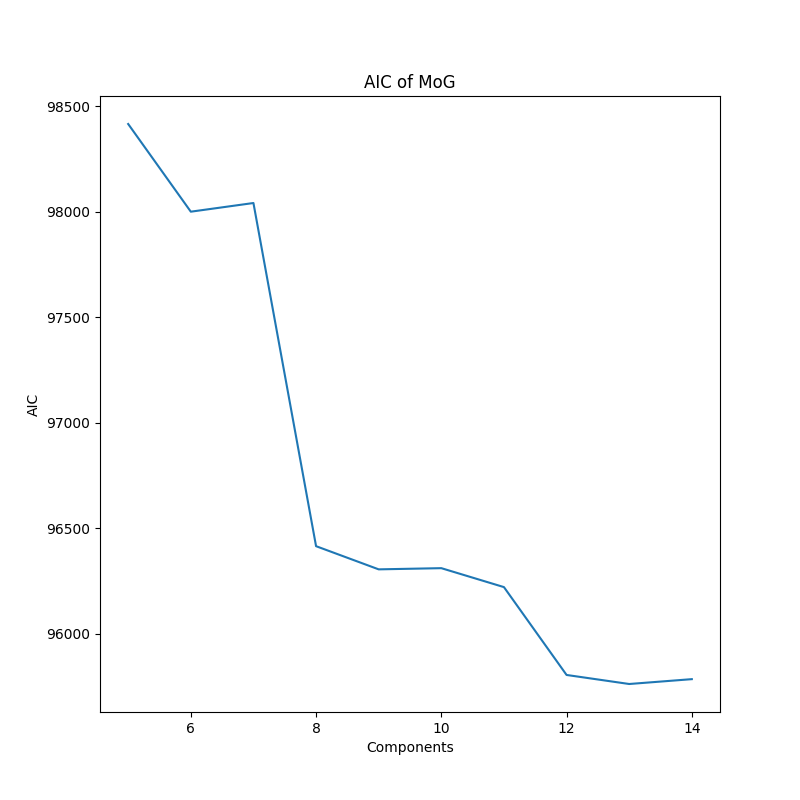
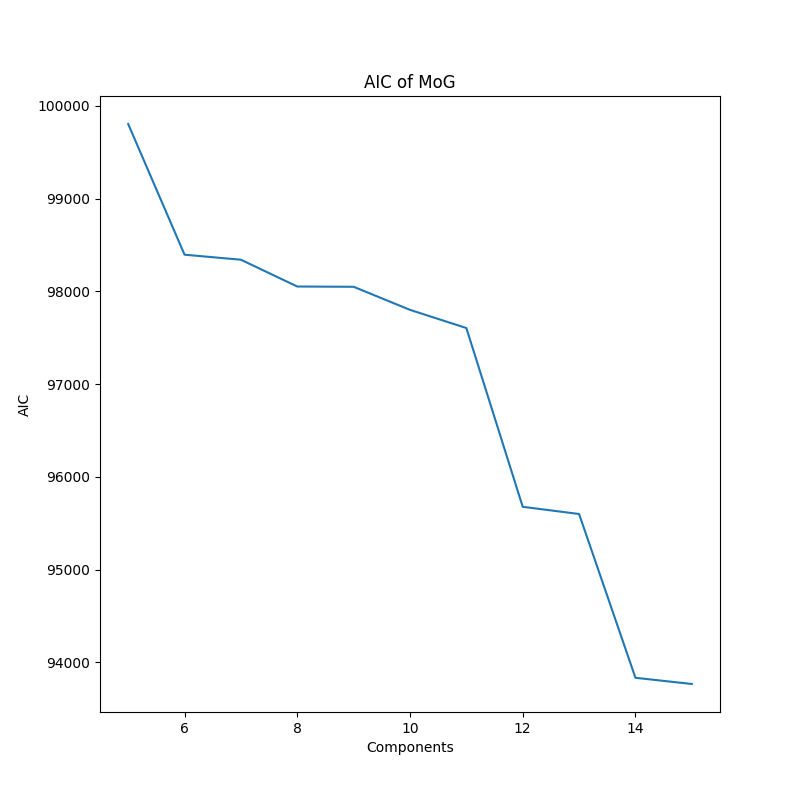
minor changes

diff --git a/Gene Data Pipeline/Task1TestKoen.py b/Gene Data Pipeline/Task1TestKoen.py
@@ -47,22 +47,6 @@ class Pipeline:
             self.preProcessedData = np.delete(self.preProcessedData,nanColumns,axis=1)
             #self.preProcessedData[np.isnan(self.preProcessedData)] = 0.0
 
-            # Create correlation matrix
-            # df = pd.DataFrame( self.preProcessedData)#, columns = ['Column_A','Column_B','Column_C'])
-            # #corr_matrix = df.corr().abs()
-            # corr_matrix = np.corrcoef(self.preProcessedData,)
-            # #corr_matrix = self.preProcessedData.corrcoef()
-
-            # # Select upper triangle of correlation matrix
-            # upper = corr_matrix[(np.triu(np.ones(corr_matrix.shape), k=1).astype(np.bool))]
-
-            # # Find features with correlation greater than 0.95
-            # to_drop = [column for column in upper.columns if any(upper[column] > 0.95)]
-
-            # # Drop features 
-            # df.drop(to_drop, axis=1, inplace=True)
-            # self.preProcessedData = df.to_numpy()
-
             # Process the labels and encode them
             self.labelsDict =[]
             self.preProcessedLabels = []
@@ -114,9 +98,9 @@ class Pipeline:
     def splitData(self):
         testSetFactor = 0.2
         # Shuffle the data set using a seed
-        p = np.random.RandomState(0).permutation(len(self.preProcessedData))
-        self.dataX = self.preProcessedData[p]
-        self.dataY = self.preProcessedLabels[p]
+        #p = np.random.RandomState(0).permutation(len(self.preProcessedData))
+        self.dataX = self.preProcessedData#[p]
+        self.dataY = self.preProcessedLabels#[p]
         testSetCount = round(len(self.dataX)*testSetFactor)
         self.trainX = self.dataX[0:len(self.dataX)-testSetCount]
         self.trainY = self.dataY[0:len(self.dataY)-testSetCount]
@@ -182,10 +166,11 @@ class Pipeline:
         
         AIC = []
         gmms = []
-        componentsRange = range(5,15,1)
+        componentsRange = range(5,16,1)
         for components in componentsRange:
+            #np.random.seed(42)
             np.random.seed(42)
-            newGmm = GaussianMixture(n_components=components, random_state=42)
+            newGmm = GaussianMixture(n_components=components)#, random_state=42)
                                     # covariance_type='full', 
                                     # tol=1e-10,
                                     # reg_covar=1e-10,
@@ -219,12 +204,7 @@ class Pipeline:
 
         gmm = gmms[np.argmin(AIC)]
         gmm.n_components
-        finalComponents = gmm.n_components #np.argmin(AIC)
-
-        
-        #gmm = GaussianMixture(n_components=finalComponents, random_state=123)
-        #gmm.fit(datasetX) 
-
+        finalComponents = gmm.n_components
         
         # Match the labels of the MoG with the real labels. 
         labels = np.zeros((finalComponents, 5))
@@ -254,31 +234,8 @@ class Pipeline:
             if prediction == label:
                 correct+=1
         accuracy = correct/len(testLabels)
+        print(accuracy)
         return accuracy
-
-    # def validation(self, data, labels, kFolds):
-    #     model = Model()
-    #     # TODO: for training cost sensitive error function becuase number of samples per class
-    #     kFolds = 800
-    #     foldSize = 1# round(len(data)/kFolds)
-    #     accuracies = []
-    #     for fold in range(kFolds):
-    #         print("Fold " + str(fold+1))
-    #         # Split the data in training and validation data
-    #         valSetIdx = np.arange(fold*foldSize,(fold+1)*foldSize, 1, int)
-    #         trainX = np.delete(data, valSetIdx,axis=0)
-    #         trainY = np.delete(labels, valSetIdx,axis=0)
-    #         valX = data[valSetIdx]
-    #         valY = labels[valSetIdx]
-            
-    #         # Train and validate the model
-    #         model.train(trainX, trainY)
-    #         accuracies.append(model.test(valX, valY))
-
-    #     accuracy = np.mean(accuracies)
-    #     print("Done, average accuracy is: " + str(round(accuracy,3))+"%")
-    #     return accuracy
-        
 
 class Model:
     def __init__(self):
@@ -307,15 +264,15 @@ if __name__=="__main__":
     pipeline.preProcess()
     pipeline.exploreData()
     pipeline.splitData()
-    #mmg, modelLabels = pipeline.clustering(pipeline.testX, pipeline.testY)
+
+    #pipeline.validation(pipeline.trainX, pipeline.trainY)
+
     dataReducedTraining = pipeline.dimensionReduction(pipeline.trainX, pipeline.trainY, 20)
-
-
     mmg, modelLabels = pipeline.clustering(dataReducedTraining, pipeline.trainY)
 
     dataReducedTesting = pipeline.dimensionReductionTestData(pipeline.testX)
     pipeline.predictMoG(mmg, modelLabels, dataReducedTesting, pipeline.testY)
-
+    
     maxNumberOfDimensions = 10
     accuracies = []
     for dimension in range(1,maxNumberOfDimensions+1):
